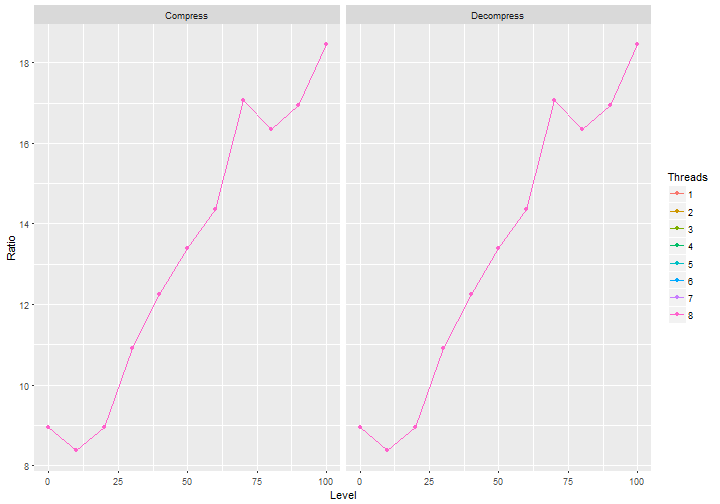
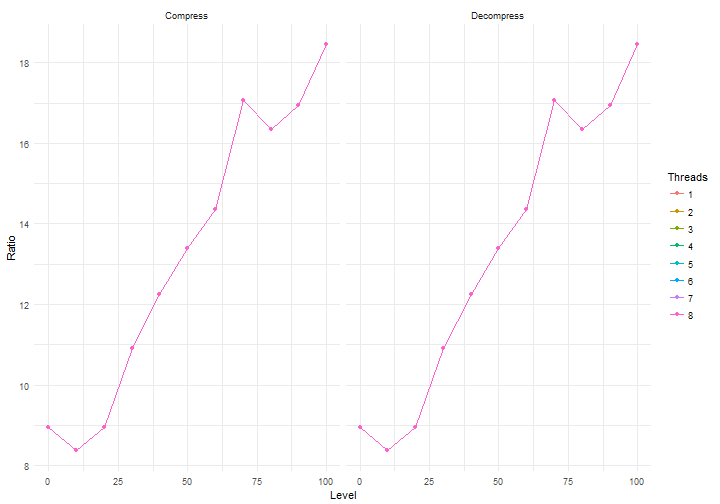
High compression use case

Changed region(s): [[0.0306, 0.0, 0.9167, 0.0595]]

diff --git a/content/post/fst_compression/fst_compression.md b/content/post/fst_compression/fst_compression.md
@@ -1,5 +1,5 @@
 ---
-title: "Multi-threaded compression from R using LZ4 and ZSTD"
+title: "Multi-threaded LZ4 and ZSTD compression from R"
 author: "Mark Klik"
 date: '2017-12-16'
 coverImage: /img/fst_compression/media/space_coast.jpg
@@ -18,17 +18,17 @@ categories:
 - fst package
 ---
 
-The _fst_ package uses LZ4 and ZSTD compression to compact data stored in the _fst_ format. With the latest release of _fst_, you can also use these compressors directly with methods _compress_fst_ and _decompress_fst_.
+The _fst_ package uses LZ4 and ZSTD compression to compact data stored in the _fst_ format. In the latest release, methods _compress\_fst_ and _decompress\_fst_ were added to provide direct multi-threaded access to these compressors.
 
 <!--more-->
 
 ## LZ4 and ZSTD
 
-[LZ4](http://lz4.github.io/lz4/) is one of the fastest compressors around, and like all LZ77-type compressors, decompression is even faster. The _fst_ package uses LZ4 to compress and decompress data at the lower compression level settings of _write__fst_. For higher compression levels, the [ZSTD](https://github.com/facebook/zstd) compressor is used, which offers superior compression ratio's but requires more CPU resources.
+[LZ4](http://lz4.github.io/lz4/) is one of the fastest compressors around, and like all LZ77-type compressors, decompression is even faster. The _fst_ package uses LZ4 to compress and decompress data when lower compression levels are selected (for _write\_fst_). For higher compression levels, the [ZSTD](https://github.com/facebook/zstd) compressor is used, which offers superior compression ratio's but requires more CPU resources.
 
 ## Multi-threaded access to LZ4 and ZSTD compressors
 
-In _fst_ version 0.8.0, methods _compress\_fst_ and _decompress\_fst_ were added that provide direct access to LZ4 and ZSTD. As an example of how they can be used, we download the _survey\_results\_public.csv_ file [from Kaggle](https://www.kaggle.com/stackoverflow/so-survey-2017) and recompress it using ZSTD:
+In _fst_ version 0.8.0, methods _compress\_fst_ and _decompress\_fst_ were added. These methods give you direct access to LZ4 and ZSTD. As an example of how they can be used, we download the _survey\_results\_public.csv_ file [from Kaggle](https://www.kaggle.com/stackoverflow/so-survey-2017) and recompress it using ZSTD:
 
 
 
@@ -36,7 +36,7 @@ In _fst_ version 0.8.0, methods _compress\_fst_ and _decompress\_fst_ were added
 ```r
 library(fst)
 
-# file downloaded from https://www.kaggle.com/stackoverflow/so-survey-2017
+# you can download this file from https://www.kaggle.com/stackoverflow/so-survey-2017
 sample_file <- "survey_results_public.csv"
 
 # read file into a raw vector
@@ -55,7 +55,7 @@ length(raw_vec) / length(compressed_vec)  # compression ratio
 ## [1] 8.949771
 ```
 
-The contents of the _survey\_results\_public.csv_ file ar ecompressed to about 11 percent of the original size. We used a compression setting of 20 percent of maximum in this example. The resulting vector can be decompressed again with:
+The contents of the _survey\_results\_public.csv_ file are ecompressed to about 11 percent of the original size (the inverse of the compression ratio). In this example a compression setting of 20 percent of maximum was used. To decompress again you can do:
 
 
 ```r
@@ -103,7 +103,8 @@ library(data.table)
 bench <- data.table(Threads = as.integer(NULL), Time = as.numeric(NULL),
   Mode = as.character(NULL), Level = as.integer(NULL), Size = as.numeric(NULL))
 
-# used a range of compression levels and number of cores
+# Note that compression with levels above 50 percent take a long time.
+# If you want to run this code yourself, start with levels 10 * 0:5
 for (level in 10 * 0:10) {
   for (threads in 1:parallel::detectCores()) {
 
@@ -130,8 +131,6 @@ for (level in 10 * 0:10) {
         Size = as.integer(object.size(compressed_vec)))))
   }
 }
-
-# 3saveRDS(bench, "comp_res_laptop2.rds")  # smallest file
 ```
 
 This creates a _data.table_ with compression and decompression benchmark results. We can display these results in a graph:
@@ -146,7 +145,8 @@ bench[, Level := as.factor(Level)]
 ggplot(bench) +
   geom_line(aes(Threads, Speed, colour = Level)) +
   geom_point(aes(Threads, Speed, colour = Level)) +
-  facet_wrap(~Mode)
+  facet_wrap(~Mode) +
+  theme_minimal()
 ```
 
 ![plot of chunk unnamed-chunk-9](/img/fst_compression/img/fig-unnamed-chunk-9-1.png)
@@ -155,4 +155,6 @@ As can be expected, the compression speed is highest for lower compression level
 
 ![plot of chunk unnamed-chunk-10](/img/fst_compression/img/fig-unnamed-chunk-10-1.png)
 
-When you have a use case where you need to compress once but decompress often (as in reading a compressed file multiple times), it's useful to spend the CPU resources on compressing at a higher setting. It will give you higher decompression speeds and a smaller compressed vector!
+# The case for high compression levels
+
+In many setups you need to compress your data once but decompress it often. Fo example, you compressed and stored a file that will need to be read many times in the future. In that case it's very useful to spend the CPU resources on compressing at a higher setting. It will give you higher decompression speeds during reads and the compressed data will occupy less space!
